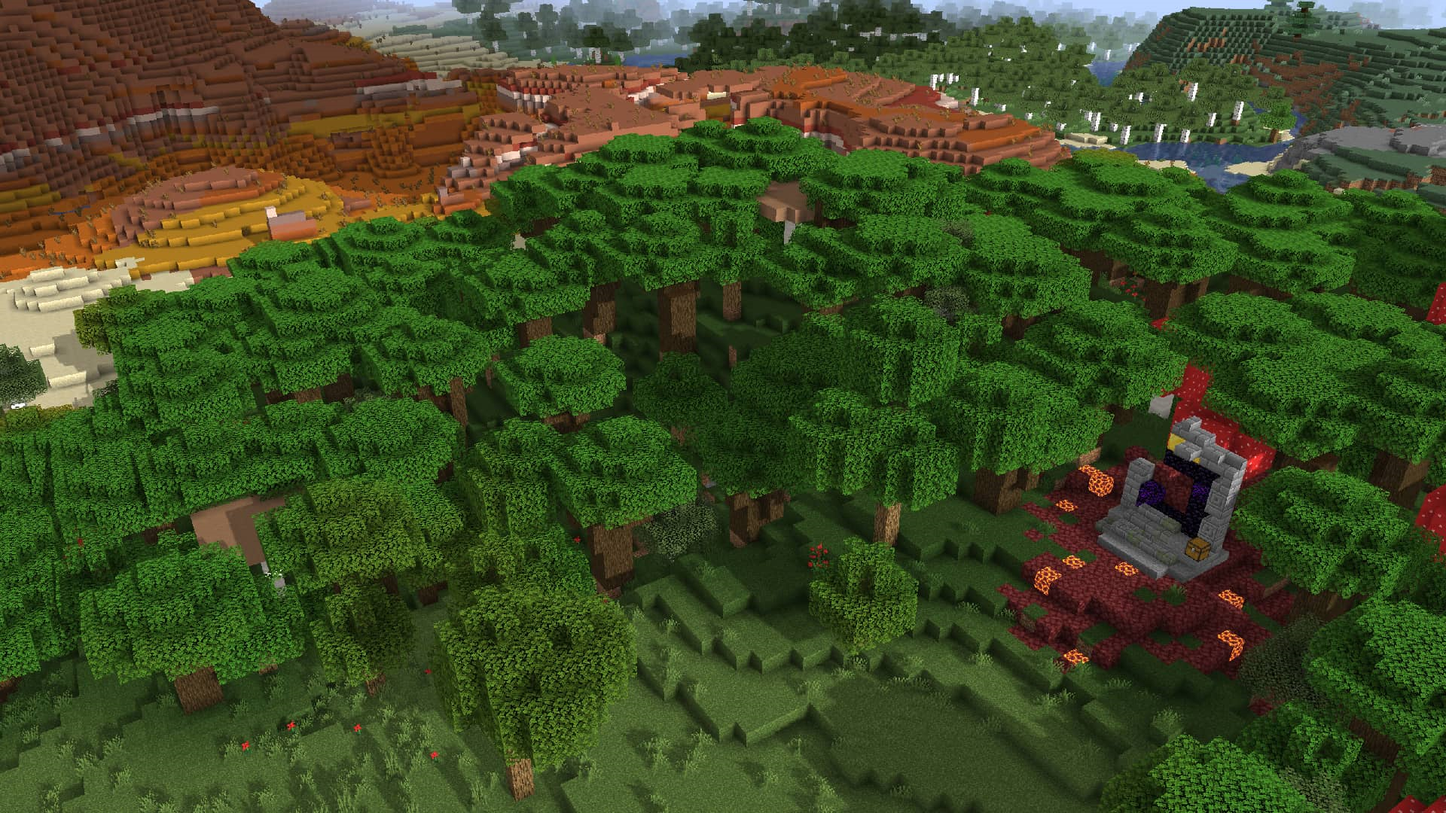
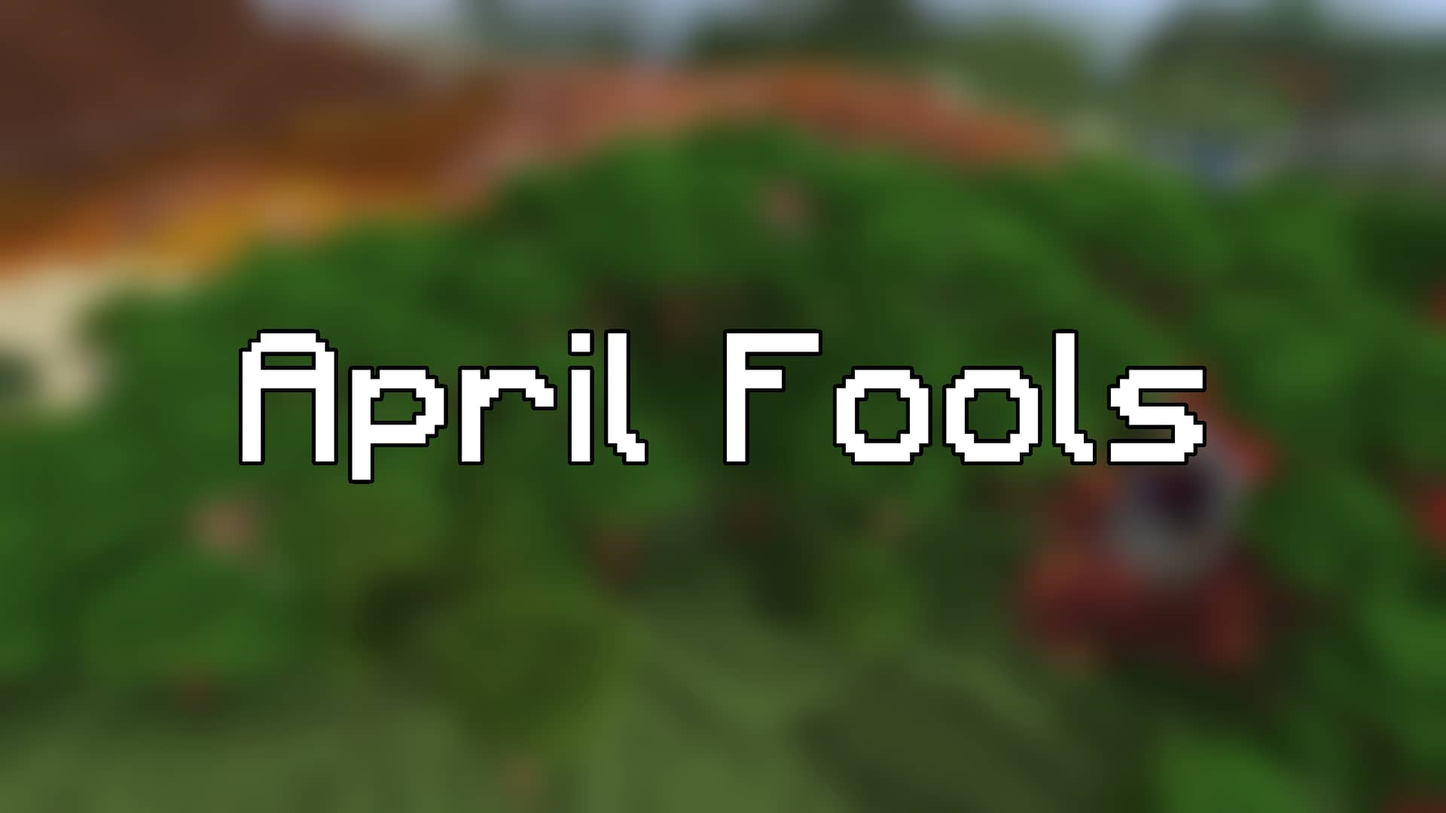
Compliance 16x is no more :crab: (but it's still accessible manually)

diff --git a/index.html b/index.html
@@ -9,25 +9,6 @@ title: Home
 
 {% assign reversed_files = site.static_files | reverse %}
 
-<h1 id="compliance-dungeons" class="display-3 my-5 text-center">Introducing: Compliance 16x</h1>
-		<div class="card-deck">
-
-			<!-- Compliance Resource Pack Card -->
-			<div class="card card-in">
-				<a href="{{ site.baseurl }}/article/compliance16x/1.16.5/R1">
-					<div class="card-img card-img-top" style="background-image: url({{ site.baseurl }}/image/article/compliance16x/1.16.5-R1.jpg);" title="Card image">
-						<img src="{{ site.baseurl }}/image/home/16x9.png" alt="ratio" />
-					</div>
-				</a>
-				<div class="card-body">
-					<!-- Card text -->
-					<h2 class="card-title h4">Click the image to go to the article!</h2>
-				</div>
-			</div>
-		</div>
-
-<hr>
-
 <!-- Screenshots carousel preview -->
 <div id="ScreenshotCarousel" class="carousel slide fancy-card-2x" data-ride="carousel">
 	<!-- indicators -->
